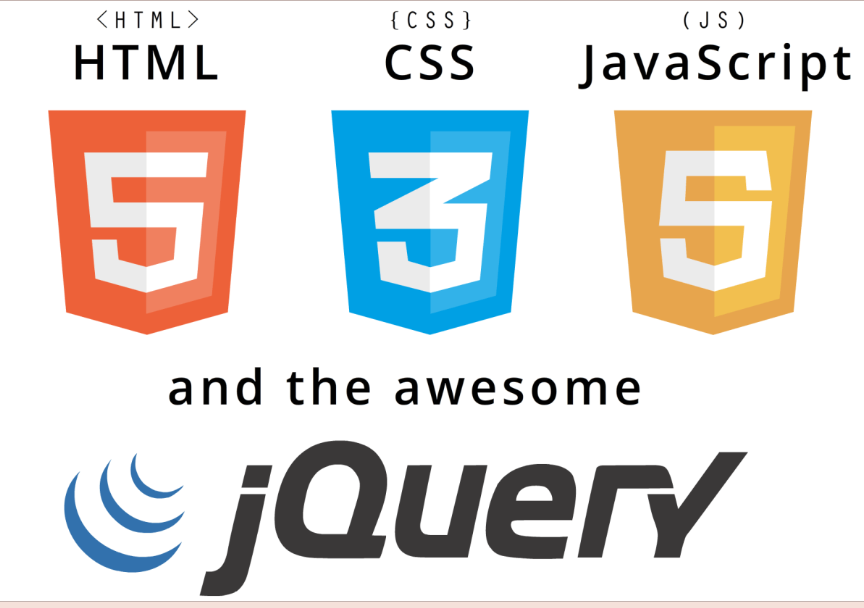
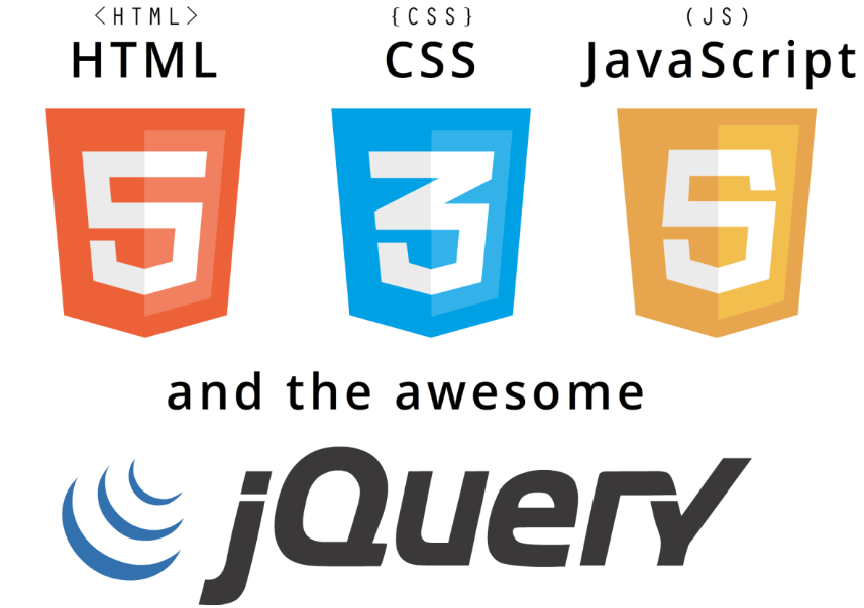
CSS title and cover photo updated

diff --git a/index.html b/index.html
@@ -230,10 +230,10 @@ d="page top">
                                 <div class="portfolio-hover">
                                     <div class="portfolio-hover-content"><i class="fas fa-plus fa-3x"></i></div>
                                 </div>
-                                <img class="img-fluid" src="img/css.jpg" height="400" width="500" alt="..."/>
+                                <img class="img-fluid" src="assets/img/portfolio/all.PNG" height="400" width="500" alt="..."/>
                             </a>
                             <div class="portfolio-caption">
-                                <div class="portfolio-caption-heading">CSS</div>
+                                <div class="portfolio-caption-heading">Web Programming</div>
                                 <!-- <div class="portfolio-caption-subheading text-muted">Photography</div> -->
                             </div>
                         </div>
